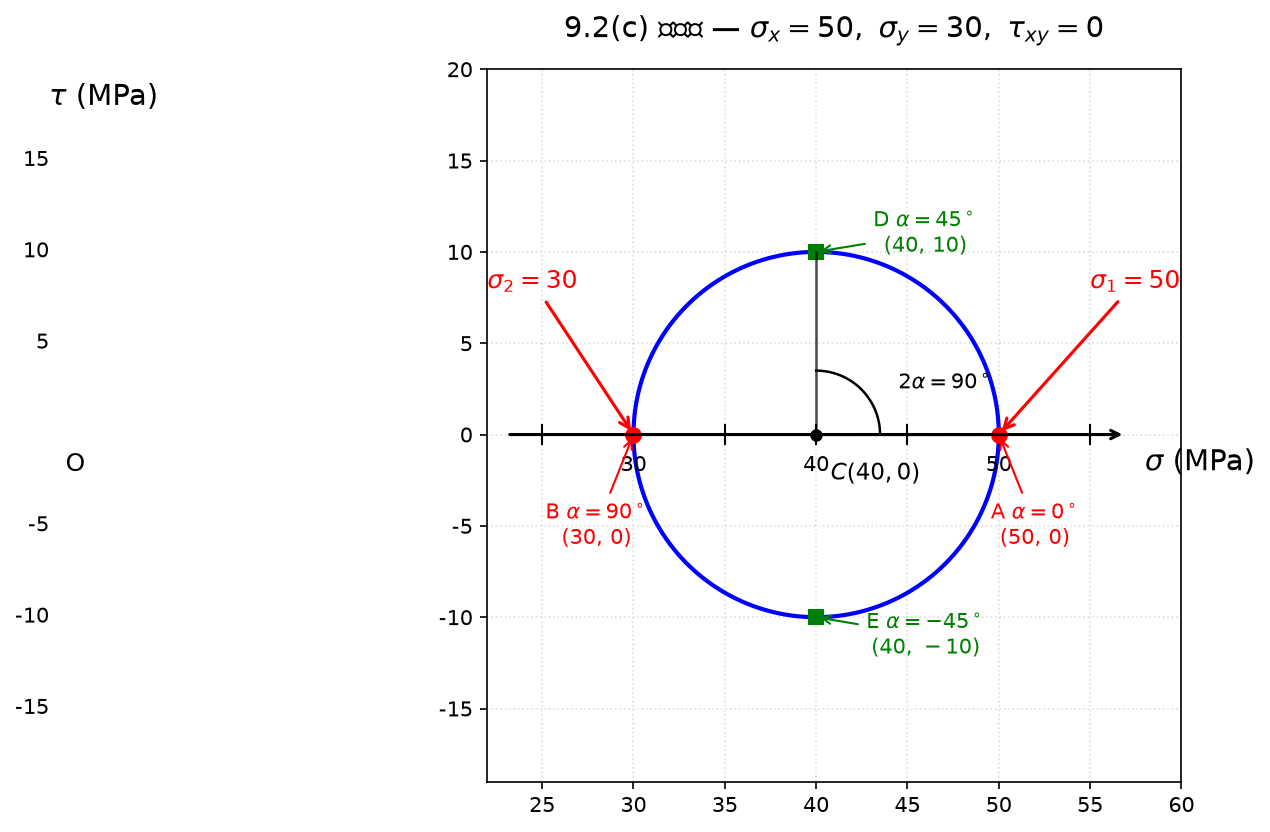
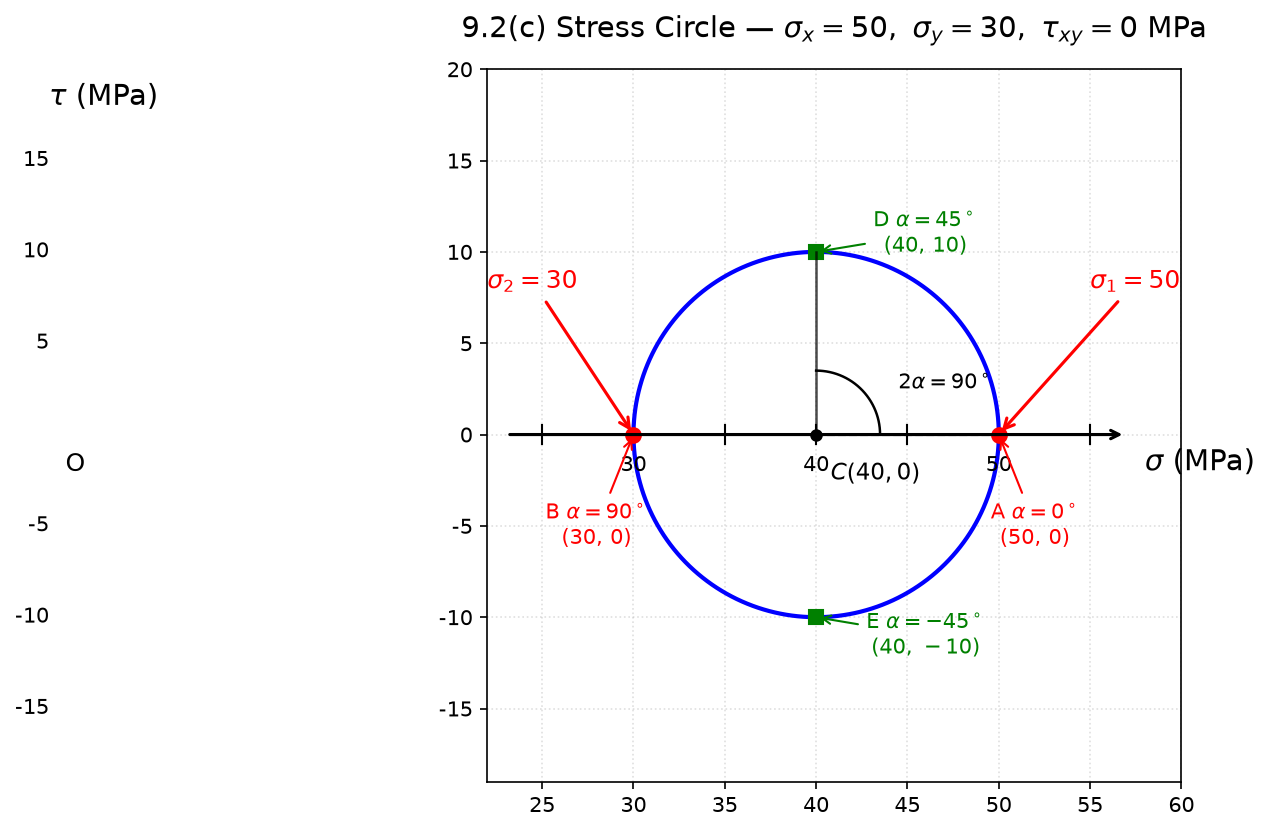
feat: update workspace

Changed region(s): [[0.3685, 0.0, 0.952, 0.0625]]

diff --git a/stress_circle_9_2c.py b/stress_circle_9_2c.py
@@ -117,7 +117,7 @@ ax.annotate(r'$\sigma_2=30$', xy=(30, 0), xytext=(22, 8),
             arrowprops=dict(arrowstyle='->', color='red', lw=1.5))
 
 # ── 标题 ──────────────────────────────────────────────────────────────────
-ax.set_title(r'9.2(c) 应力圆 — $\sigma_x=50,\ \sigma_y=30,\ \tau_{xy}=0$',
+ax.set_title(r'9.2(c) Stress Circle — $\sigma_x=50,\ \sigma_y=30,\ \tau_{xy}=0$ MPa',
              fontsize=14, pad=15)
 
 # ── 网格和比例 ─────────────────────────────────────────────────────────────
